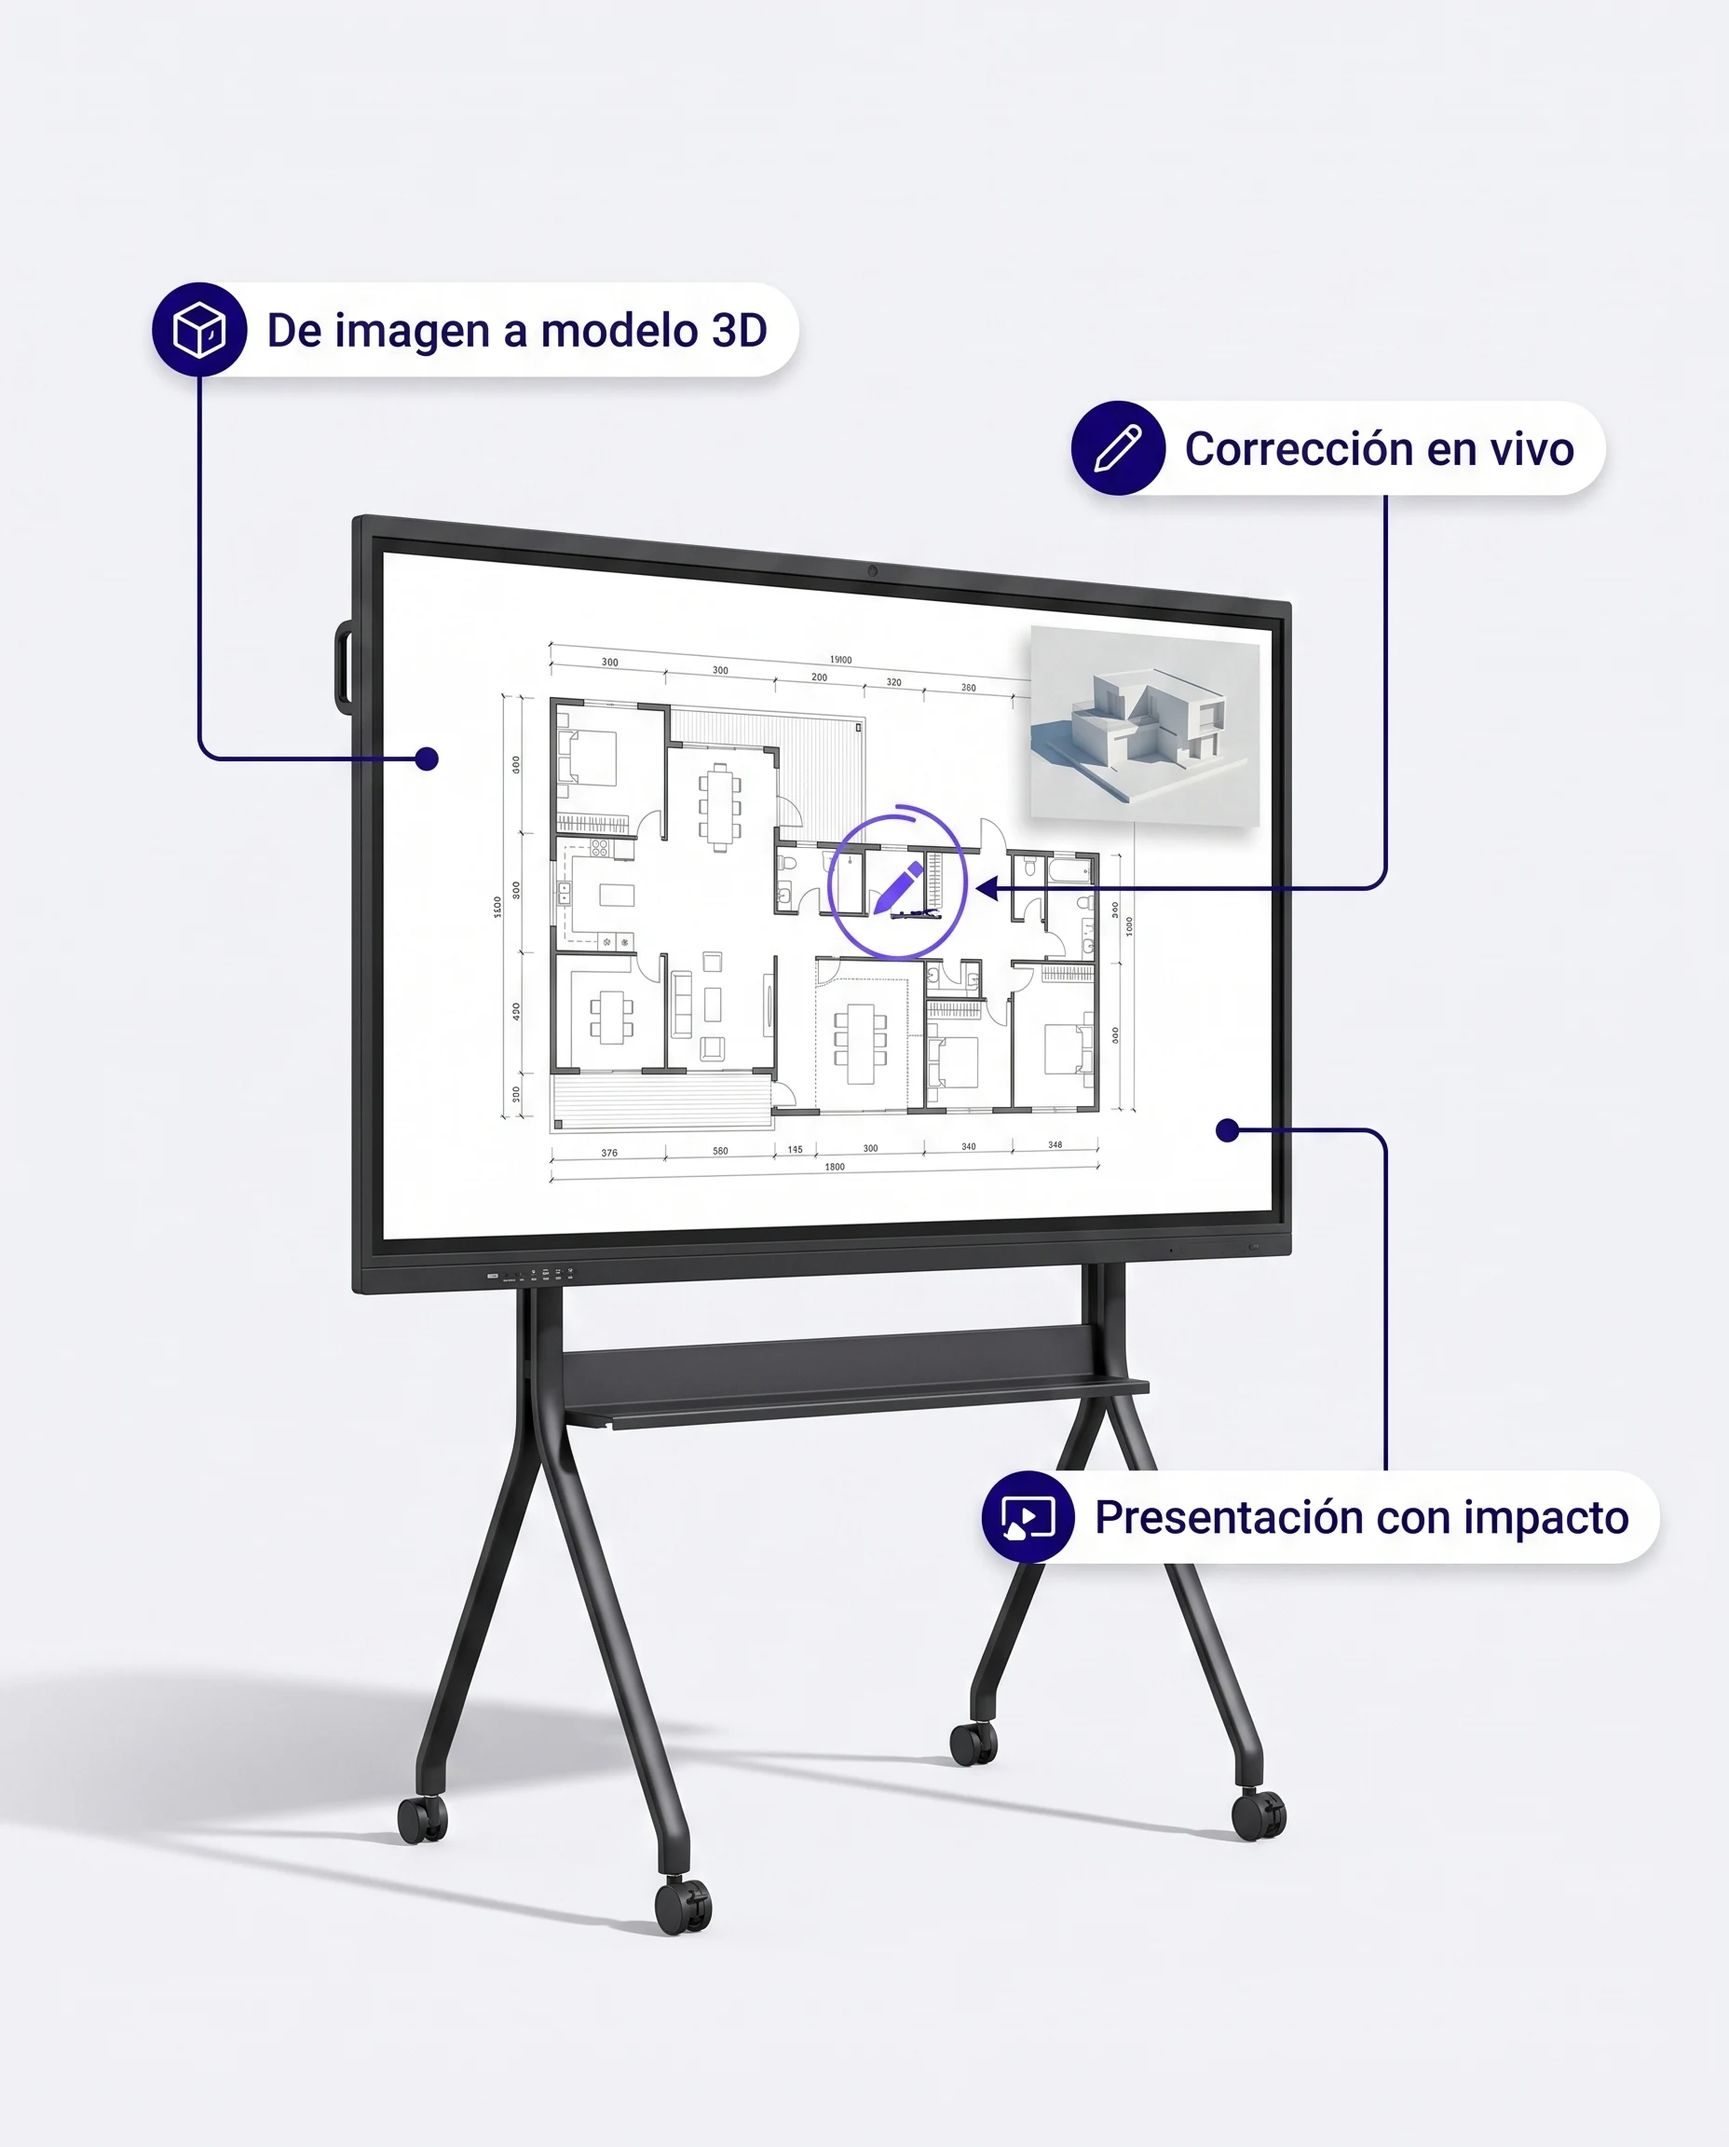
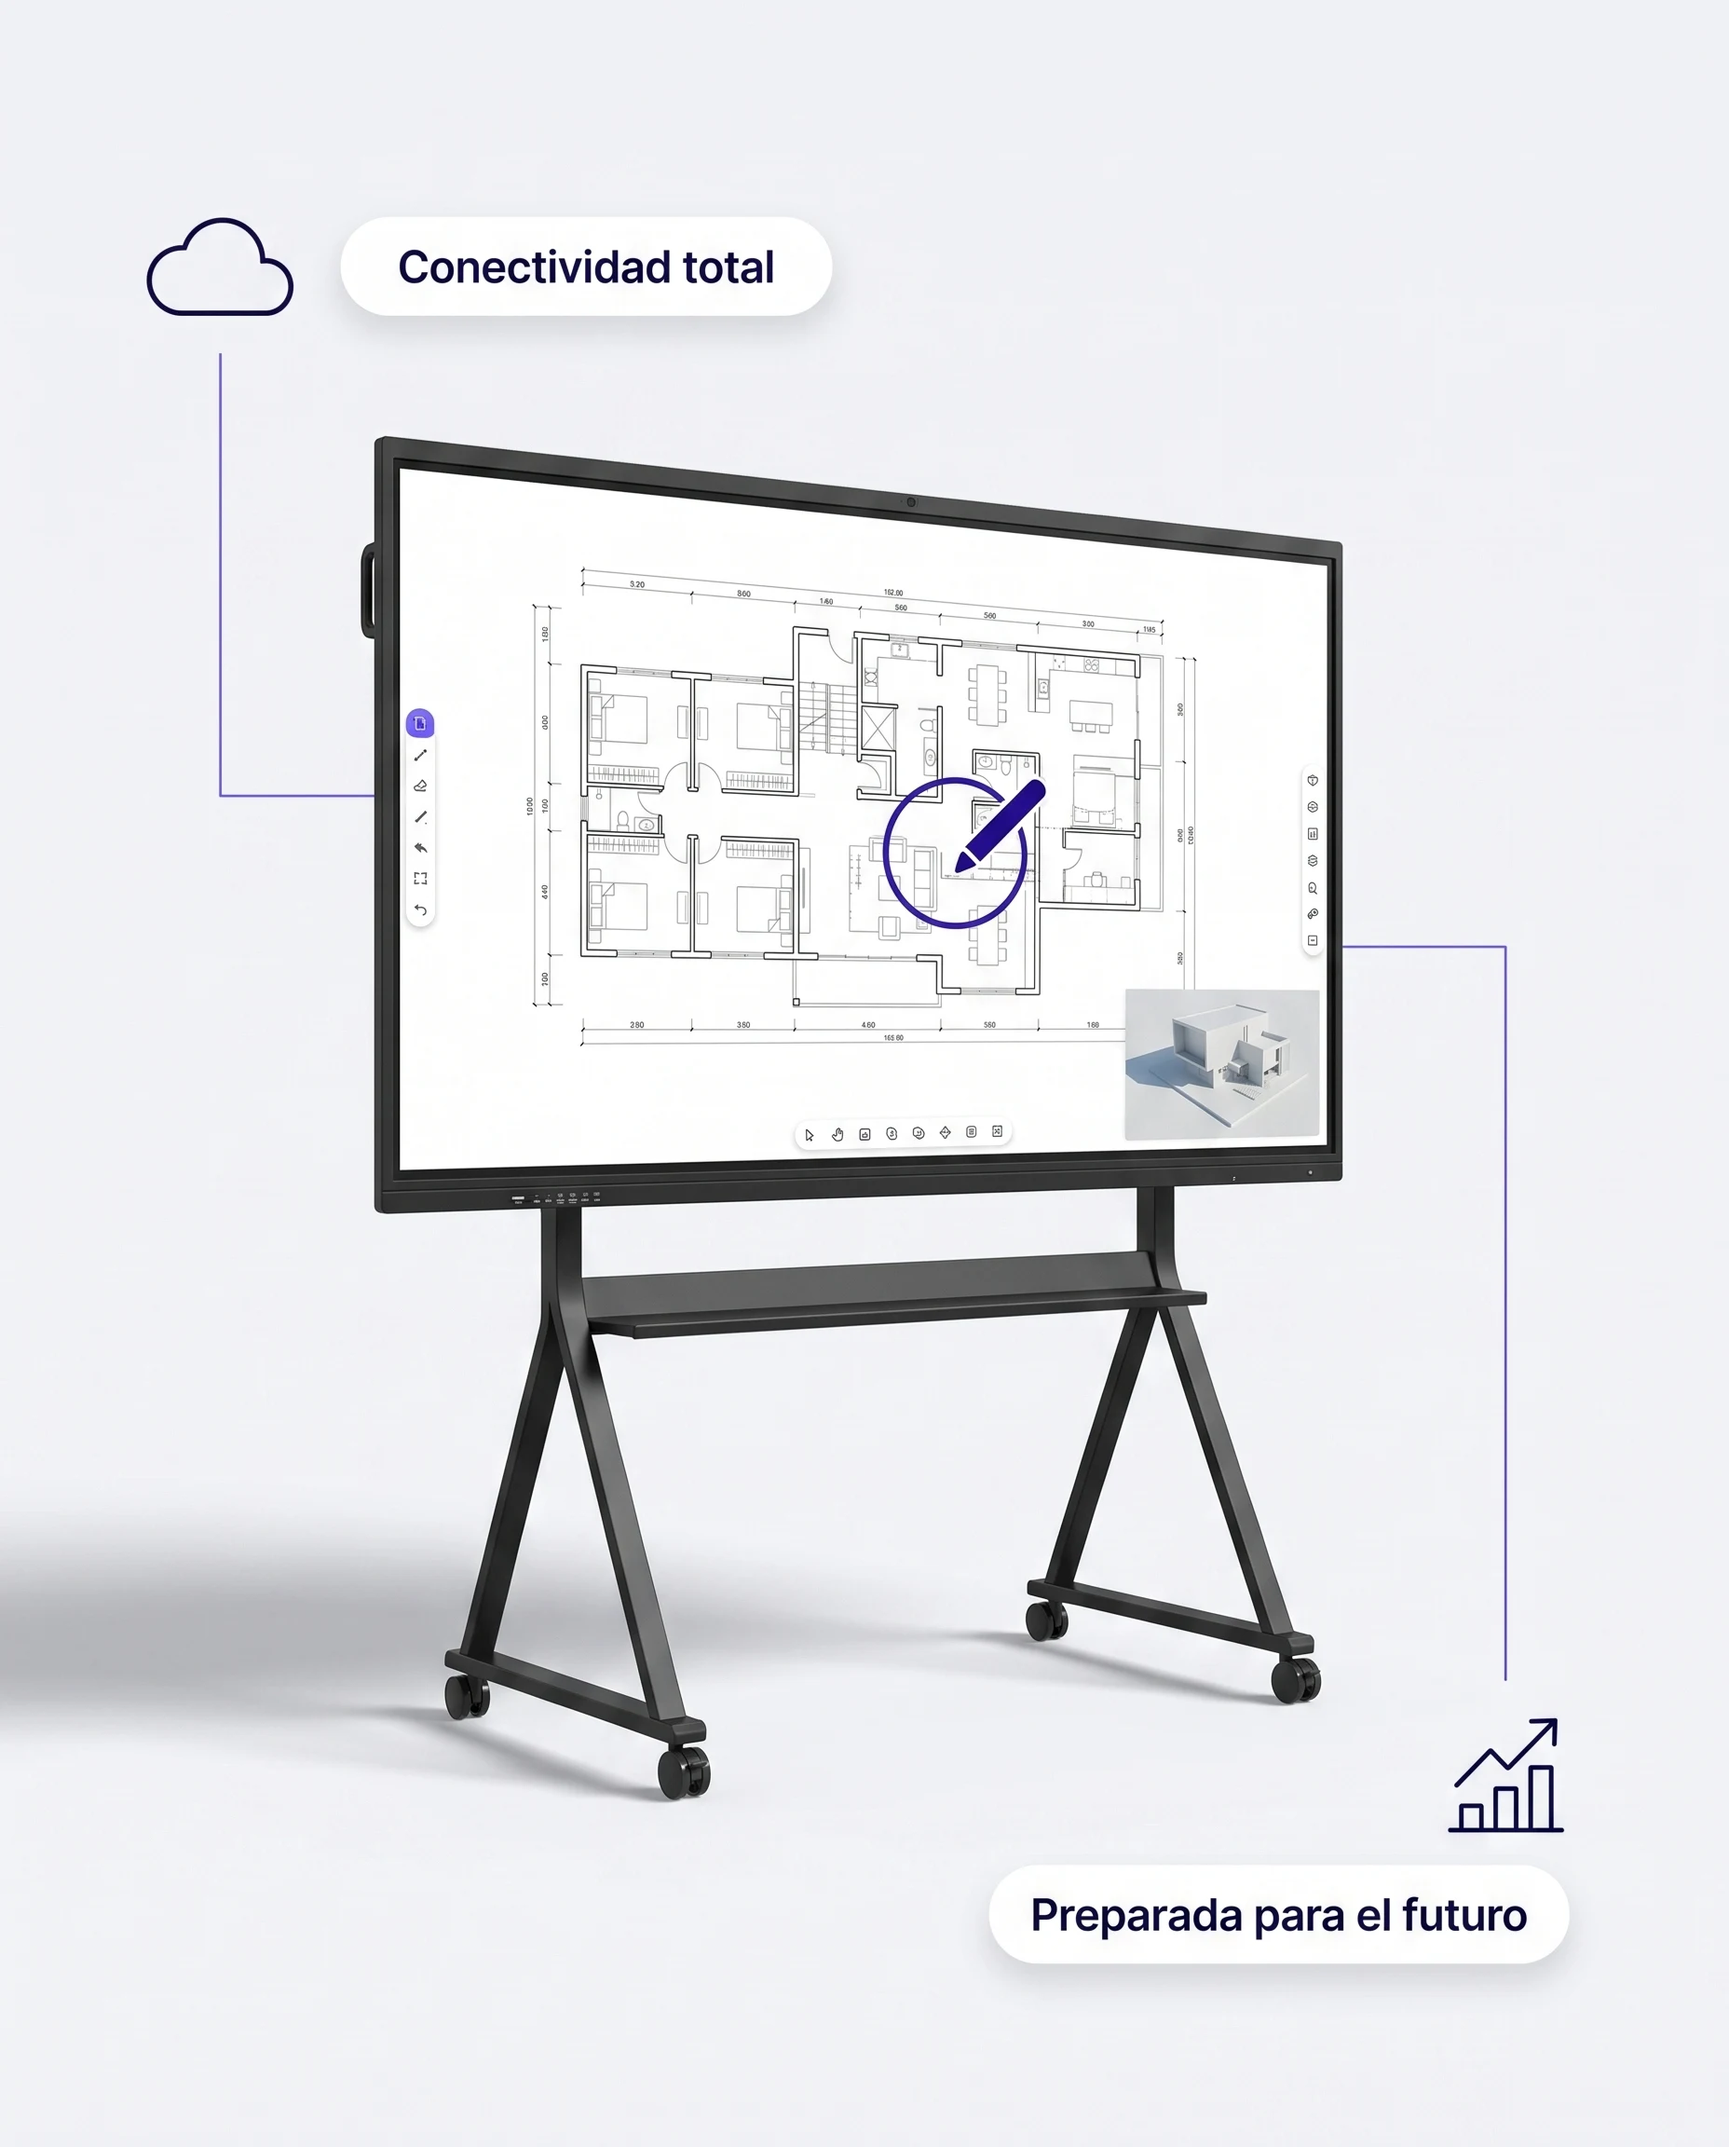
Usar el copy real de "Ventajas" en la galería y sumar 2 gráficos IA a las filas de funciones
Alejo mandó la lista de 7 ventajas ("Todo en uno", "Interacción real", etc.)
para reemplazar el copy inventado de los 3 gráficos de la galería, y pidió
el mismo tratamiento (gráfico de producto en vez de foto) para las filas
"Anotación en vivo" y "Android + Windows", con referencias de estilo.

De paso se encontró y arregló una trampa de CSS que afectaba las 3 filas de
"Qué hace la pantalla" desde siempre: el atributo HTML height="427" le
ganaba al aspect-ratio:16/9, recortando ~1.18:1 en vez de 16:9 (se comía
30%+ del ancho de la imagen). Se agrega height:auto a .row-media img.

Changed region(s): [[0.0, 0.0938, 0.9375, 0.9062], [0.8438, 0.4375, 0.875, 0.4688]]

diff --git a/public/index.html b/public/index.html
@@ -264,7 +264,9 @@ h2.una-linea { max-width: none; white-space: nowrap; }
   border: 1px solid var(--line);
   box-shadow: 0 30px 60px -40px rgba(0, 0, 0, 0.4);
 }
-.row-media img { width: 100%; aspect-ratio: 16 / 9; object-fit: cover; }
+/* height:auto es necesario: si no, el atributo HTML height="427" le gana
+   al aspect-ratio y la imagen queda recortada mucho más angosta que 16:9. */
+.row-media img { width: 100%; height: auto; aspect-ratio: 16 / 9; object-fit: cover; }
 .row h3 { font-size: clamp(25px, 2.4vw, 33px); font-weight: 800; }
 .row p { margin-top: 16px; font-size: 18px; color: var(--ink-2); line-height: 1.56; }
 .row-tag {
@@ -478,14 +480,14 @@ h2.una-linea { max-width: none; white-space: nowrap; }
 <div class="row-tag"><svg width="16" height="16" viewBox="0 0 24 24" fill="none" stroke="currentColor" stroke-width="1.8" stroke-linecap="round" stroke-linejoin="round" aria-hidden="true"><path d="M20 6 9 17l-5-5"/></svg>Anotación en vivo</div>
 <h3>Anotá encima<br>de lo que estés mostrando.</h3><p>Un gráfico, un plano, una web abierta. Escribís arriba sin salir de la aplicación y todo queda guardado en el mismo archivo. La reunión termina y el material ya está listo para enviar.</p>
 </div>
-<div class="row-media"><img src="https://czocbnyoenjbpxmcqobn.supabase.co/storage/v1/object/public/algoritmia-img/aimax/demo-anotacion.jpg" width="760" height="427" loading="lazy" decoding="async" alt="Pantalla AIMAX con anotaciones a mano sobre un gráfico durante una clase"></div>
+<div class="row-media"><img src="https://czocbnyoenjbpxmcqobn.supabase.co/storage/v1/object/public/algoritmia-img/aimax/fila-anotacion.webp" width="760" height="427" loading="lazy" decoding="async" alt="Pantalla AIMAX con una anotación a mano sobre un gráfico de barras"></div>
 </div>
 <div class="row">
 <div class="row-copy">
 <div class="row-tag"><svg width="16" height="16" viewBox="0 0 24 24" fill="none" stroke="currentColor" stroke-width="1.8" stroke-linecap="round" stroke-linejoin="round" aria-hidden="true"><path d="M20 6 9 17l-5-5"/></svg>Android + Windows</div>
 <h3>Dos sistemas,<br>una sola pantalla.</h3><p>Android 14 para arrancar en segundos y usar la pizarra, la cámara o el navegador. Un módulo Windows 10 con Core i7 y 1 TB para trabajar como en tu PC. Se cambia de uno a otro sin desenchufar nada.</p>
 </div>
-<div class="row-media"><img src="https://czocbnyoenjbpxmcqobn.supabase.co/storage/v1/object/public/algoritmia-img/aimax/demo-ia.jpg" width="760" height="427" loading="lazy" decoding="async" alt="Pantalla AIMAX ejecutando un navegador con ChatGPT en modo Windows"></div>
+<div class="row-media"><img src="https://czocbnyoenjbpxmcqobn.supabase.co/storage/v1/object/public/algoritmia-img/aimax/fila-android-windows.webp" width="760" height="427" loading="lazy" decoding="async" alt="Comparación entre una sala con equipos separados y una sala con AIMAX, Android y Windows en una sola pantalla"></div>
 </div>
 </div></div></section>
 <section class="section tinted"><div class="wrap">

diff --git a/src/build_landing.py b/src/build_landing.py
@@ -59,8 +59,8 @@ VSL_SUBIDO = "2026-08-22"
 IMAGENES = [
     "vsl-poster.jpg",
     "demo-escritura.jpg",
-    "demo-anotacion.jpg",
-    "demo-ia.jpg",
+    "fila-anotacion.webp",
+    "fila-android-windows.webp",
     "instalacion.webp",
     "logo-ypf.png",
     "logo-terminal6.png",
@@ -376,7 +376,9 @@ h2.una-linea { max-width: none; white-space: nowrap; }
   border: 1px solid var(--line);
   box-shadow: 0 30px 60px -40px rgba(0, 0, 0, 0.4);
 }
-.row-media img { width: 100%; aspect-ratio: 16 / 9; object-fit: cover; }
+/* height:auto es necesario: si no, el atributo HTML height="427" le gana
+   al aspect-ratio y la imagen queda recortada mucho más angosta que 16:9. */
+.row-media img { width: 100%; height: auto; aspect-ratio: 16 / 9; object-fit: cover; }
 .row h3 { font-size: clamp(25px, 2.4vw, 33px); font-weight: 800; }
 .row p { margin-top: 16px; font-size: 18px; color: var(--ink-2); line-height: 1.56; }
 .row-tag {
@@ -648,8 +650,8 @@ FILAS = [
         texto="Un gráfico, un plano, una web abierta. Escribís arriba sin salir de la "
               "aplicación y todo queda guardado en el mismo archivo. La reunión "
               "termina y el material ya está listo para enviar.",
-        img="demo-anotacion.jpg",
-        alt="Pantalla AIMAX con anotaciones a mano sobre un gráfico durante una clase",
+        img="fila-anotacion.webp",
+        alt="Pantalla AIMAX con una anotación a mano sobre un gráfico de barras",
         flip=True,
     ),
     dict(
@@ -658,8 +660,8 @@ FILAS = [
         texto="Android 14 para arrancar en segundos y usar la pizarra, la cámara o el "
               "navegador. Un módulo Windows 10 con Core i7 y 1 TB para trabajar como en "
               "tu PC. Se cambia de uno a otro sin desenchufar nada.",
-        img="demo-ia.jpg",
-        alt="Pantalla AIMAX ejecutando un navegador con ChatGPT en modo Windows",
+        img="fila-android-windows.webp",
+        alt="Comparación entre una sala con equipos separados y una sala con AIMAX, Android y Windows en una sola pantalla",
         flip=False,
     ),
 ]

diff --git a/src/subir_supabase.py b/src/subir_supabase.py
@@ -44,8 +44,8 @@ SCRATCH = (r"C:\Users\lucag\AppData\Local\Temp\claude\c--Users-lucag--claude"
 ARCHIVOS = [
     (AQUI, "vsl-poster.jpg"),
     (AQUI, "demo-escritura.jpg"),
-    (AQUI, "demo-anotacion.jpg"),
-    (AQUI, "demo-ia.jpg"),
+    (AQUI, "fila-anotacion.webp"),
+    (AQUI, "fila-android-windows.webp"),
     (AQUI, "instalacion.webp"),
     (AQUI, "logo-ypf.png"),
     (AQUI, "logo-terminal6.png"),

diff --git a/README.md b/README.md
@@ -121,17 +121,36 @@ además 5 nombres sin logo ni foto, solo texto — igual que Molino Dos
 Hermanos —: Santa Fe Bio, Franco Pisso, Buena Vista Desarrollos, Deal Buró
 y Proglobal, confirmados por Alejo el 2026-09-03.
 
-## Galería "Tres formas de usarla todos los días"
+## Galería "Tres formas de usarla todos los días" y filas de funciones
 
-Las 3 imágenes (`caso-educacion.webp`, `caso-empresas.webp`,
-`caso-arquitectura.webp`) son gráficos generados con IA (nano-banana pro,
-con `instalacion.webp` como referencia de producto para mantener el diseño
-real del equipo), no fotos de instalaciones ni de clientes puntuales.
-Hasta el 2026-09-03 esa sección mostraba 3 fotos reales atribuidas a FAPyD,
+Las 3 imágenes de la galería (`caso-educacion.webp`, `caso-empresas.webp`,
+`caso-arquitectura.webp`) y 2 de las 3 filas de "Qué hace la pantalla"
+(`fila-anotacion.webp`, `fila-android-windows.webp`) son gráficos generados
+con IA (nano-banana pro, con `instalacion.webp` como referencia de producto
+para mantener el diseño real del equipo), no fotos de instalaciones ni de
+clientes puntuales. La primera fila (`demo-escritura.jpg`) sigue siendo una
+captura real del producto.
+
+Hasta el 2026-09-03 la galería mostraba 3 fotos reales atribuidas a FAPyD,
 Black Swan Inversiones y Municipalidad de Rosario — Alejo avisó que esas
-fotos no correspondían a esos casos de uso, así que se sacó la atribución
-y se reemplazaron por estos gráficos genéricos, sin nombre de cliente,
-hasta tener material real y verificado.
+fotos no correspondían a esos casos de uso, así que se sacó la atribución.
+Alejo pidió después reemplazarlas por gráficos de producto con los
+beneficios integrados (mandó 3 referencias) y usar el mismo estilo en las
+filas de "Anotación en vivo" y "Android + Windows".
+
+Los 7 textos de la galería (`Todo en uno`, `Interacción real`, `Colaboración
+sin límites`, `Conectividad total`, `Mejora la atención`, `Ahorro de tiempo
+y recursos`, `Preparada para el futuro`) son la lista de "Ventajas de una
+pantalla interactiva" que mandó Alejo, repartida 3/2/2 entre las 3 imágenes.
+
+**Trampa de CSS resuelta el 2026-09-03:** `.row-media img` tenía
+`aspect-ratio: 16/9` pero el atributo HTML `height="427"` (fijo para las 3
+filas) le ganaba a la aspect-ratio — el navegador usaba 427px de alto literal
+en vez de calcularlo desde el ancho, así que el recorte real terminaba siendo
+~1.18:1 en vez de 16:9 y se comía el 30%+ del ancho de la imagen por cada
+lado. Afectaba a las 3 filas desde siempre, no solo a las nuevas — se notó
+recién con los gráficos de IA porque tienen texto pegado a mitad de la
+imagen. Se arregla agregando `height: auto;` explícito en la regla CSS.
 
 ## Pendiente
 
